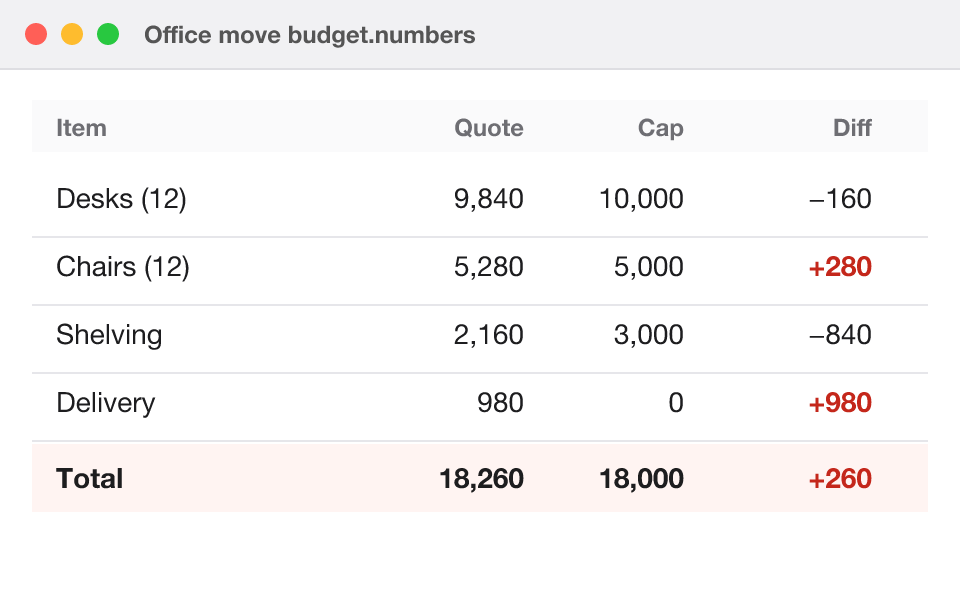
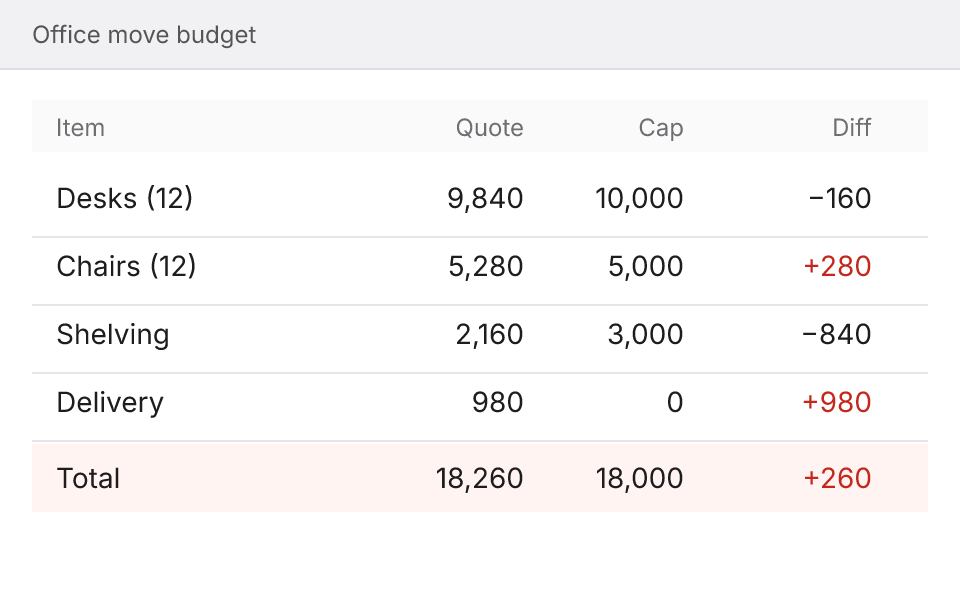
fix(tutorial): fix the Pin issues found on Windows
- Write onboarding.json and tutorial.json one write at a time per file.
  Two renames onto one file at once fail with EPERM on Windows, which
  lost a tutorial update.
- Tick "Find it in the library" when the existing library window comes
  back to the front, not only when it opens.
- Anchor the add-fields tip on the library's Add chips. The panel's Add
  menu it pointed at never shows in the library, so the tip never did.
- Find the example image from the main script in development, so a start
  with out/main/index.js seeds the examples too.
- Draw the example image in a plain title bar instead of macOS chrome.

diff --git a/src/main/index.ts b/src/main/index.ts
@@ -60,6 +60,7 @@ import {
 import {
   CAPTURE_PAGE,
   CHECKLIST_TITLE,
+  EXAMPLE_IMAGE,
   checklistDoneText,
   HOME_PAGE,
   PIN_TASK_IDS,
@@ -72,6 +73,7 @@ import { createPinWindows } from "./pin-windows";
 import { handleInsetProtocol, registerInsetScheme } from "./protocol";
 import { createQuitGate } from "./quit-gate";
 import { createQuitPath } from "./quit-path";
+import { serialWrites } from "./serial-writes";
 import { nodeSettingsFs, openSettingsStore } from "./settings-store";
 import { createSettingsWindow } from "./settings-window";
 import { failNextWrite, nodeStoreFs, openCaptureStore } from "./store";
@@ -128,15 +130,11 @@ const explainFailure = async <T>(
   }
 };
 
-/** The app's resources folder: packed beside the asar, or the repo's in development. */
-const resourcesDir = (): string =>
-  app.isPackaged
-    ? path.join(process.resourcesPath, "resources")
-    : path.join(app.getAppPath(), "resources");
-
 /** macOS tints the template; Windows needs the glyph that contrasts with its taskbar, which has its own theme. */
 const trayIconPath = (): string => {
-  const base = resourcesDir();
+  const base = app.isPackaged
+    ? path.join(process.resourcesPath, "resources")
+    : path.join(app.getAppPath(), "resources");
 
   if (isMac) {
     return path.join(base, "trayTemplate.png");
@@ -197,6 +195,9 @@ const start = async (): Promise<void> => {
   const settings = await openSettingsStore(dataDir, nodeSettingsFs);
   const pinnedImage = createPinnedImage(store);
 
+  // Setup's and the tutorial's files, one write at a time: two renames onto one file at once fail on Windows.
+  const stateFs = serialWrites(nodeSettingsFs);
+
   // Set once the windows the tutorial hints in, and their IPC servers, exist.
   const tutorialPages = {
     emit: ignore,
@@ -214,8 +215,19 @@ const start = async (): Promise<void> => {
       examples: pinExamples(isMac),
       newId: () => CaptureIdSchema.parse(randomUUID()),
       now: () => new Date(),
+      // Found from this file in development, so a start with the script's path (out/main/index.js) finds it too.
       readImage: async () =>
-        await readFile(path.join(resourcesDir(), "example-capture.png")),
+        await readFile(
+          app.isPackaged
+            ? path.join(process.resourcesPath, "resources", EXAMPLE_IMAGE.file)
+            : path.join(
+                import.meta.dirname,
+                "..",
+                "..",
+                "resources",
+                EXAMPLE_IMAGE.file
+              )
+        ),
       store: {
         has: (id) => store.get(id) !== undefined,
         publish: async (record, png) => await store.publish(record, png),
@@ -235,10 +247,7 @@ const start = async (): Promise<void> => {
     },
     pageVisible: (page) => tutorialPages.visible(page),
     spotlight: pinSpotlight(isMac),
-    store: createTutorialStore(
-      path.join(dataDir, "tutorial.json"),
-      nodeSettingsFs
-    ),
+    store: createTutorialStore(path.join(dataDir, "tutorial.json"), stateFs),
     tasks: pinTasks(isMac),
     title: CHECKLIST_TITLE,
     warn: (message) => {
@@ -341,6 +350,9 @@ const start = async (): Promise<void> => {
       menus.refresh();
     },
     onFocusChange: () => {
+      // The library coming to the front again, from Recent captures… or the taskbar: Find it in the library.
+      // oxlint-disable-next-line no-use-before-define -- defined once the library exists.
+      findInLibrary();
       menus.refresh();
     },
     onRejected: logRejected,
@@ -536,7 +548,7 @@ const start = async (): Promise<void> => {
     setTimer,
     store: createOnboardingStore(
       path.join(dataDir, "onboarding.json"),
-      nodeSettingsFs
+      stateFs
     ),
     tagline: PIN_TAGLINE,
     tile: appTile.view,

diff --git a/src/main/serial-writes.test.ts b/src/main/serial-writes.test.ts
@@ -1,0 +1,94 @@
+import { setTimeout as delay } from "node:timers/promises";
+
+import { describe, expect, it } from "vitest";
+
+import { serialWrites } from "./serial-writes";
+
+/** A disk where a write takes until it is released, and two at once onto one file fail, as renames do on Windows. */
+const slowDisk = () => {
+  const files = new Map<string, string>();
+  const pending: (() => void)[] = [];
+  const writing = new Set<string>();
+  let clashes = 0;
+
+  return {
+    clashes: () => clashes,
+    files,
+    fs: {
+      readFile: async (file: string) =>
+        await Promise.resolve(files.get(file) ?? ""),
+      writeAtomic: async (file: string, data: string) => {
+        if (writing.has(file)) {
+          clashes += 1;
+
+          throw new Error("EPERM: operation not permitted, rename");
+        }
+
+        writing.add(file);
+
+        try {
+          // oxlint-disable-next-line promise/avoid-new -- the test releases each write by hand.
+          await new Promise<void>((resolve) => {
+            pending.push(resolve);
+          });
+          files.set(file, data);
+        } finally {
+          writing.delete(file);
+        }
+      },
+    },
+    /** Lets every write on its way finish, one after another. */
+    settle: async () => {
+      for (let round = 0; round < 10; round += 1) {
+        pending.shift()?.();
+        // A finished write lets the next one start, a few promise steps later.
+        // oxlint-disable-next-line no-await-in-loop
+        await delay(0);
+      }
+    },
+  };
+};
+
+describe(serialWrites, () => {
+  it("writes one file one write at a time, in the order asked, so none is lost", async () => {
+    const disk = slowDisk();
+    const fs = serialWrites(disk.fs);
+
+    const writes = [
+      fs.writeAtomic("tutorial.json", "1"),
+      fs.writeAtomic("tutorial.json", "2"),
+      fs.writeAtomic("tutorial.json", "3"),
+    ];
+
+    await disk.settle();
+    await Promise.all(writes);
+
+    expect({
+      clashes: disk.clashes(),
+      last: disk.files.get("tutorial.json"),
+    }).toStrictEqual({ clashes: 0, last: "3" });
+  });
+
+  it("lets a write go ahead after the one before it failed", async () => {
+    let calls = 0;
+
+    const fs = serialWrites({
+      readFile: async () => await Promise.resolve(""),
+      writeAtomic: async () => {
+        calls += 1;
+
+        if (calls === 1) {
+          throw new Error("disk full");
+        }
+
+        await Promise.resolve();
+      },
+    });
+
+    const first = fs.writeAtomic("f", "a");
+    const second = fs.writeAtomic("f", "b");
+
+    await expect(first).rejects.toThrow("disk full");
+    await expect(second).resolves.toBeUndefined();
+  });
+});

diff --git a/scripts/screens.ts b/scripts/screens.ts
@@ -516,6 +516,13 @@ const LIBRARY_HINT = shownHint(
   "inside"
 );
 
+const ADD_FIELDS_HINT = shownHint(
+  "add-fields",
+  "add-fields",
+  null,
+  "Add a description, next steps or a due date here. None of it is needed when you capture."
+);
+
 /** The first run's example captures (src/main/pin-tutorial.ts), on their bundled image. */
 const EXAMPLE_IDS = [uuid(51), uuid(52)];
 
@@ -6578,6 +6585,20 @@ const checkOnboarding = async (
     { hash: `/captures/${EXAMPLE_IDS[0] ?? ""}` }
   );
 
+  // The library's fields tip points at its add chips, which a capture without a Due shows.
+  const addFieldsTip = await calls(
+    "library",
+    {
+      ...examplesLibrary,
+      tutorial: tutorialView({ active: ADD_FIELDS_HINT, examples: true }),
+    },
+    async (tab) => {
+      await tab.getByText("None of it is needed when you capture.").waitFor();
+      await click(tab, "Got it");
+    },
+    { hash: `/captures/${EXAMPLE_IDS[0] ?? ""}` }
+  );
+
   // A tip never takes the keyboard from the title: typing after ⌥⌘P still lands there.
   let titleKept = { focus: "", typed: false };
 
@@ -6728,6 +6749,7 @@ const checkOnboarding = async (
     "setup and tutorial: Welcome's Return and Not now; Allow and Back; Reopen to finish, the tile's drag and Not now; Reopening… asks again; Done's two ways into the library; the checklist tags the examples, asks only for a task's how-to, and removes the examples; a drawn tip is seen and Got it puts it away, in the library and the panel, where the title keeps the keyboard; the walkthrough's Next has focus at stops 1 and 2, and Esc ends it; Settings' Show tips and Reset Tutorial; the panel hands Screen Recording to setup, and an empty image offers the pane and a reopen",
     {
       access,
+      addFieldsTip,
       checklist,
       done,
       empty,
@@ -6746,6 +6768,10 @@ const checkOnboarding = async (
     },
     {
       access: ["allow:screen", "back"],
+      addFieldsTip: [
+        "tutorial:hintShown:add-fields",
+        "tutorial:dismissHint:add-fields",
+      ],
       checklist: ["tutorial:taskHint:pin", "tutorial:removeExamples:"],
       done: ["finish:showAround", "finish:start"],
       empty: ["openScreenSettings", "relaunch"],

diff --git a/scripts/generate-icons.ts b/scripts/generate-icons.ts
@@ -42,15 +42,15 @@ const row = (
 
 /**
  * The tutorial's example captures' image (src/main/pin-tutorial.ts): a
- * budget table, 480 × 300 points at 2 pixels per point. Its numbers sit
- * where the examples' pins point.
+ * budget table, 480 × 300 points at 2 pixels per point, in a plain title
+ * bar that belongs to no system. Its numbers sit where the examples' pins
+ * point.
  */
 const exampleSvg = `<svg xmlns="http://www.w3.org/2000/svg" viewBox="0 0 480 300" font-family="${FONT}" font-size="14" fill="#1d1d1f">
 <rect width="480" height="300" fill="#ffffff"/>
 <rect width="480" height="34" fill="#f1f1f3"/>
 <rect y="34" width="480" height="1" fill="#dedee2"/>
-<circle cx="18" cy="17" r="5.5" fill="#ff5f57"/><circle cx="36" cy="17" r="5.5" fill="#febc2e"/><circle cx="54" cy="17" r="5.5" fill="#28c840"/>
-<text x="72" y="21.5" font-size="12" font-weight="600" fill="#555555">Office move budget.numbers</text>
+<text x="16" y="21.5" font-size="12" font-weight="600" fill="#555555">Office move budget</text>
 <rect x="16" y="50" width="448" height="26" fill="#fafafb"/>
 <g font-size="12" font-weight="600" fill="#6e6e73">
 <text x="28" y="68">Item</text><text x="262" y="68" text-anchor="end">Quote</text><text x="342" y="68" text-anchor="end">Cap</text><text x="436" y="68" text-anchor="end">Diff</text>

diff --git a/src/main/serial-writes.ts b/src/main/serial-writes.ts
@@ -1,0 +1,44 @@
+/** Writes a whole text file in one step, as the app's own atomic write does. */
+export interface TextFileWriter {
+  readonly readFile: (file: string) => Promise<string>;
+  readonly writeAtomic: (file: string, data: string) => Promise<void>;
+}
+
+/**
+ * The same files, written one at a time per file. A write that starts while
+ * another to the same file is on its way waits for it, so they land in the
+ * order they were asked for. On Windows two renames onto the same file at
+ * once fail with EPERM, which lost one of them.
+ */
+export const serialWrites = (fs: TextFileWriter): TextFileWriter => {
+  const queues = new Map<string, Promise<void>>();
+
+  return {
+    readFile: fs.readFile,
+    writeAtomic: async (file, data) => {
+      const before = queues.get(file);
+
+      const run = async (): Promise<void> => {
+        try {
+          await before;
+        } catch {
+          // The previous write's failure is its caller's: this one still goes ahead.
+        }
+
+        await fs.writeAtomic(file, data);
+      };
+
+      const mine = run();
+
+      queues.set(file, mine);
+
+      try {
+        await mine;
+      } finally {
+        if (queues.get(file) === mine) {
+          queues.delete(file);
+        }
+      }
+    },
+  };
+};

diff --git a/src/renderer/fields/entry-fields.tsx b/src/renderer/fields/entry-fields.tsx
@@ -193,7 +193,6 @@ const AddMenu = ({
           className={ADD_ROW}
           data-due-home=""
           data-testid="add-menu"
-          {...coach("add-menu")}
           disabled={disabled}
           type="button"
         >
@@ -390,7 +389,10 @@ export const EntryFields = ({
       <div className="-mx-1.5 mt-1.5 flex min-h-6 flex-wrap items-center gap-1.5">
         {dueRow}
         {pickerAnchor(
-          <span className="inline-flex flex-wrap items-center gap-0.5">
+          <span
+            className="inline-flex flex-wrap items-center gap-0.5"
+            {...coach("add-fields")}
+          >
             <AddChips fields={addable ? missing : []} onAdd={add} />
           </span>
         )}

diff --git a/src/main/pin-tutorial.ts b/src/main/pin-tutorial.ts
@@ -127,12 +127,13 @@ export const pinHints = (mac: boolean): readonly TutorialHint[] => {
       title: "Your library",
     },
     {
-      anchor: "add-menu",
+      // The library's chips for the fields a capture doesn't have yet; the panel's Add menu isn't in the library.
+      anchor: "add-fields",
       id: "add-fields",
       page: HOME_PAGE,
       placement: "below",
       task: null,
-      text: "Add a description, next steps or a due date. None of it is needed when you capture.",
+      text: "Add a description, next steps or a due date here. None of it is needed when you capture.",
       title: null,
     },
   ];
